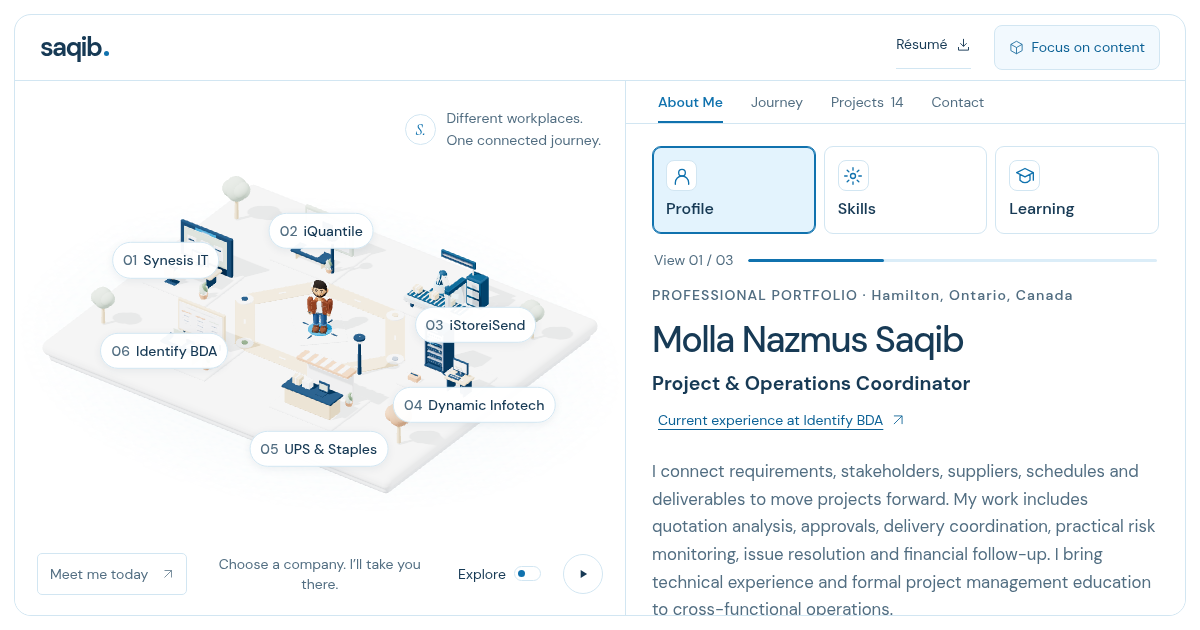
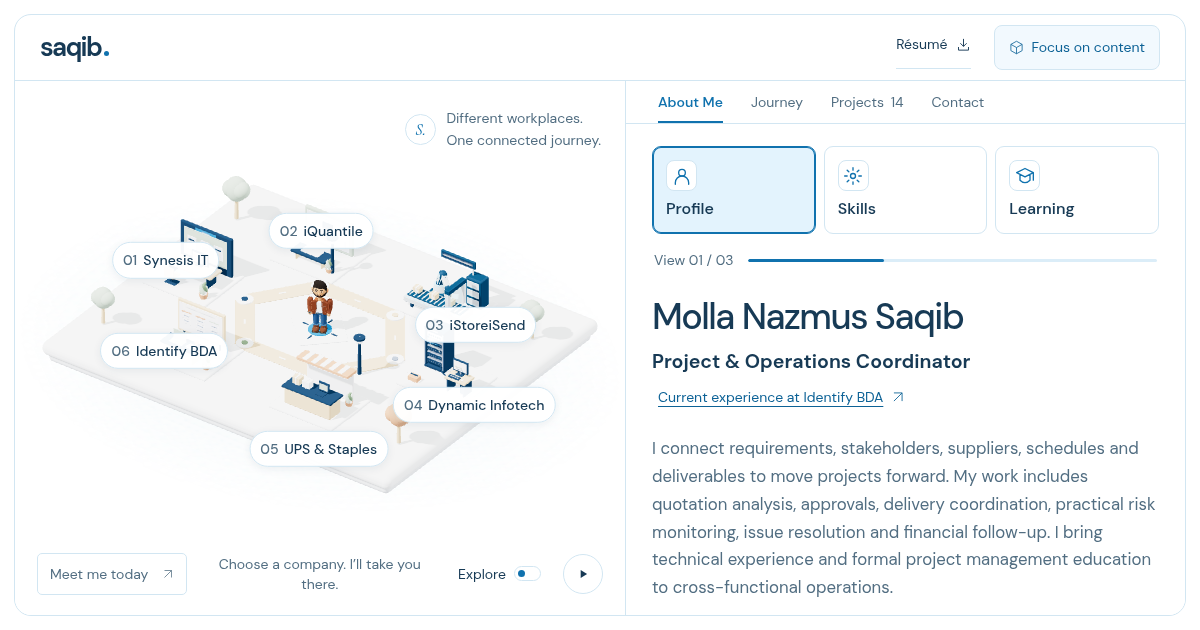
Remove portfolio and location line from About Me

Changed region(s): [[0.5242, 0.4524, 0.9558, 0.9952]]

diff --git a/index.html b/index.html
@@ -28,7 +28,6 @@
     <div id="app">
       <main class="static-overview" aria-label="Professional overview">
         <header class="static-overview-header">
-          <p class="static-eyebrow">Professional portfolio · Hamilton, Ontario</p>
           <h1>Molla Nazmus Saqib</h1>
           <p class="static-position">Project &amp; Operations Coordinator</p>
           <p class="static-summary">I connect requirements, stakeholders, suppliers, schedules and deliverables to move projects forward. My work includes quotation analysis, approvals, delivery coordination, practical risk monitoring, issue resolution and financial follow-up. I bring technical experience and formal project management education to cross-functional operations.</p>

diff --git a/src/recruiter-view.js b/src/recruiter-view.js
@@ -15,7 +15,6 @@ export function renderOpportunityStatement(summary) {
 
 export function renderProfessionalOverview({ aboutMe, professionalSummary }) {
   return `<section class="professional-overview" aria-label="Quick professional overview">
-    <p class="eyebrow">PROFESSIONAL PORTFOLIO · ${esc(professionalSummary.location)}</p>
     <h1 id="about-title">${esc(aboutMe.name)}</h1>
     <p class="professional-position">${esc(professionalSummary.headline)}</p>
     <button class="professional-current" type="button" data-current-experience>Current experience at Identify BDA ${arrow}</button>

diff --git a/docs/content-review.md b/docs/content-review.md
@@ -89,3 +89,7 @@ The owner supplied a newer two-page PDF (73,783 bytes), which replaces the previ
 ## Dynamic Infotech heading — 22 November 2026
 
 At the owner’s request, the position heading now reads Field Technician, Level 1. On-call remains in the employment-type details; Jan 2023–Present and the latest résumé are unchanged.
+
+## About Me heading — 22 November 2026
+
+Removed the Professional Portfolio and location line above the name in About Me and the matching static fallback. The contact details, location metadata, résumé and other About Me content remain unchanged.
